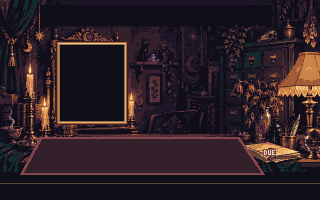
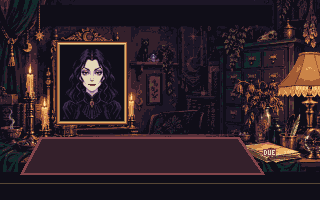
Add layered cartoon Vex sprites to all room candidates

Changed region(s): [[0.1875, 0.24, 0.375, 0.6]]

diff --git a/art/README.md b/art/README.md
@@ -1,46 +1,48 @@
 # Vex room candidates
 
-Three room backgrounds for a live portrait comparison. No room is selected yet. These files add art only; they do not change the persona, renderer or kiosk.
+Three room compositions with a drawn cartoon Vex. The agent remains voice-only; the sprite mouth follows her voice volume. No room is selected yet. These files add art only; they do not change the persona, renderer or kiosk.
 
 ## Start here
 
 - `palette.json` is the single source of truth: 32 sRGB hex colours, in fixed order.
 - `rooms/index.json` lists the three candidates and their asset paths.
-- Each `rooms/<id>.png` is the finished **320×200** background.
+- Each `rooms/<id>.png` is the finished **320×200** still with Vex composed into the room.
 - Each `rooms/<id>.json` describes its overlay rectangles in native pixels.
 - Each `rooms/<id>.laptop.png` is a **1440×900** composition mockup: a **1280×800** scene at exactly **×4**, with **80 px** side margins and **50 px** top/bottom margins.
-- Each `rooms/<id>.layout.png` is an optional ×4 rectangle guide: gold = face, green = table, pink = speech, slate = controls.
+- Each `rooms/<id>.layout.png` is an optional ×4 rectangle guide: gold = sprite, green = table, pink = speech, slate = controls.
 - `idle-dialogue.json` contains six short Vex lines. All fit on one row at a six-pixel glyph advance.
 
-The native backgrounds leave the face, speech and controls areas empty. The mockups add one sample line and the three control labels. Mockup controls are not interactive. No static character has been baked into the rooms: use the moving face test before choosing.
+Each room also has a `<id>.background.png` clean plate for animation. Load that plate in the runtime, then draw Vex from `sprites/vex-sheet.png`; use the composed still as a preview or fallback. Speech and controls stay clear in the native files. Mockups add sample dialogue and labels; those labels are not interactive.
+
+The sprite atlas includes breathing, a blink, four reactions, four voice mouth shapes, an extra resting smirk, and an optional card-turning hand. See `sprites/README.md` for the layering contract. The rough sheet was delivered first; the refined sheet retains its frame positions.
 
 ## Candidates
 
-| ID | Composition | Face opening | Card safe area |
+| ID | Composition | Sprite rectangle | Card safe area |
 | --- | --- | --- | --- |
 | `01-velvet-alcove` | Central gilt mirror, purple curtains, dead bouquet and overdue invoice to the left | x128, y41, 64×76 | x65, y136, 190×30 |
 | `02-corner-booth` | Mirror to the left; bottle-green drawers, lamp, dead flowers and paperwork to the right | x60, y45, 64×76 | x55, y141, 180×28 |
 | `03-attic-window` | Mirror to the right; cool window light, wilted flowers and books to the left | x224, y39, 64×76 | x82, y140, 174×29 |
 
-The identical 64×76 portrait openings let the face test compare composition without also changing crop size. Start with the same head-and-shoulders framing in all three. Adjust lighting to the room: balanced warm light for the alcove, warm light from the right for the booth, cool left/warm right for the attic.
+All three rooms use the same 64×76 sprite size, so the first talking-sprite test can compare the compositions directly.
 
 ## Placement contract
 
-Load the room JSON, its `background`, and its `palette` relative to the JSON's location. Use `rects.face`, `rects.table`, `rects.speech` and `rects.controls`. Use `safeAreas.cards` for unobstructed card placement; the wider table rectangle includes the cloth border. Use `controlItems` for labels and hit targets.
+Load the room JSON, its `background`, and its `palette` relative to the JSON's location. Use `rects.sprite`, `rects.table`, `rects.speech` and `rects.controls`. Use `safeAreas.cards` for unobstructed card placement; the wider table rectangle includes the cloth border. Use `controlItems` for labels and hit targets.
 
 Coordinates use a top-left origin. `x` and `y` are inclusive. `x + width` and `y + height` are exclusive. Pixel aspect ratio is 1. Do not apply a 4:3 correction. Map input coordinates through the same scale and letterbox offsets as the scene.
 
 Render in this order:
 
 1. Native room background.
-2. Live portrait, clipped to `rects.face`. The gilt frame is already in the background, outside this rectangle. Its empty glass uses palette index 0.
-3. Cards inside `safeAreas.cards`.
+2. Sprite body, then mouth at the same `rects.sprite` origin. The gilt frame is already in the background, outside this rectangle. The clean plate recess uses palette index 0.
+3. Cards inside `safeAreas.cards`, followed by the optional hand at `sprite.handOrigin`.
 4. Dialogue in `rects.speech`.
 5. Controls in `rects.controls`.
 
 Use nearest-neighbour scaling after composition. The supplied mockups are ×4. A 1366×768 viewport cannot fit a 1280×800 scene: use ×3 there rather than cropping or distorting the room. The runtime can select the largest whole-number scale that fits its viewport.
 
-The table is sized for the next one-card sample and small spread thumbnails. Enlarged card inspection can use a separate overlay; do not enlarge every card into the portrait or speech area. Longer live dialogue will need paging or short chunks. The one-line guarantee applies to the six supplied idle lines, not arbitrary model speech.
+The table is sized for the next one-card sample and small spread thumbnails. Enlarged card inspection can use a separate overlay; do not enlarge every card into the sprite or speech area. Longer live dialogue will need paging or short chunks. The one-line guarantee applies to the six supplied idle lines, not arbitrary model speech.
 
 ## Palette roles
 
@@ -57,11 +59,11 @@ Dither is off. Every pixel in the finished backgrounds and mockups belongs to th
 
 ## Production and cleanup
 
-The source room images were generated with the built-in image-generation tool. The exact prompts are in `prompts/`. They describe original VGA adventure-game rooms without named game references, characters or borrowed jokes. The persona is unchanged.
+The source room and sprite images were generated with the built-in image-generation tool. The exact prompts are in `prompts/`. They describe original VGA adventure-game rooms without named game references, characters or borrowed jokes. The persona is unchanged.
 
 The finishing script reduces each source to 320×200, quantises to the shared palette without dithering, then applies hand-specified native-pixel edits:
 
-- square, uniform face openings with continuous gilt bevels;
+- square, uniform sprite recesses with continuous gilt bevels;
 - quiet speech bands and a clean control strip;
 - simplified cloth silhouettes and uncluttered card safe areas;
 - a small readable overdue stamp on each invoice;
@@ -76,8 +78,10 @@ node art/scripts/build.mjs
 node art/scripts/verify.mjs
 ```
 
-The checker validates sizes, palette membership, clear face openings, rectangle bounds and non-overlap, single-line idle text, exact ×4 pixel blocks, letterboxing, and changes restricted to UI rectangles in the mockups. Intermediate files go to the ignored `art/.build/` directory.
+The checker validates sizes, palette membership, clear sprite plates, rectangle bounds and non-overlap, single-line idle text, exact ×4 pixel blocks, letterboxing, and changes restricted to UI rectangles in the mockups. Intermediate files go to the ignored `art/.build/` directory.
+
+The sprite checker also verifies all 17 named frames, binary transparency, a fixed head during breathing, and all 40 body/mouth combinations. Validation does not exercise audio or browser integration.
 
 ## Next check
 
-Put the same moving face into each room using its JSON. Check head size, jaw/shoulder crop, lighting, mouth readability and visual separation from the card table at real laptop scale. Then choose one room for a complete sample scene with one card, dialogue and real controls. The video comparison has not been run as part of this art delivery.
+Claude can put the sprite into the placeholder room and drive the four mouth shapes from Vex's voice volume. Compare all three compositions at laptop scale, then choose one for the sample scene with one card, dialogue and real controls. The current work changes only `art/`; runtime integration and persona remain outside this branch's scope.

diff --git a/art/sprites/README.md b/art/sprites/README.md
@@ -1,0 +1,35 @@
+# Vex cartoon sprite
+
+`vex-sheet.png` is a transparent 256×380 atlas. Every cell is 64×76 with identical alignment. Load the exact named rectangles and timings from `vex-sheet.json`. `vex-reactions-preview.png` shows composed expressions; `vex-sheet-preview.png` shows the atlas layers. Neither preview is a runtime atlas.
+
+| Row | Cells, left to right |
+| --- | --- |
+| 0 | idle, breathe in, half blink, blink |
+| 1 | eye roll, smirk, dramatic, unimpressed |
+| 2 | closed mouth, slightly open, open, wide |
+| 3 | resting smirk mouth; three unused transparent cells |
+| 4 | hand rest (transparent), reach, turn, settle |
+
+## Draw contract
+
+1. Draw the room's clean `background` plate, not the composed `still`.
+2. Copy the selected body cell to `rects.sprite.x, rects.sprite.y` at 64×76.
+3. Copy the selected mouth cell to exactly the same destination. Its padding already positions the lips. `mouthAnchor` describes the lip location; it is not an extra draw offset.
+4. Draw cards, then the optional hand at `sprite.handOrigin`. The hand contact point is (29,54) within its cell; reposition its origin if the runtime moves the card.
+5. Draw dialogue and controls, then upscale the entire scene with nearest-neighbour sampling.
+
+Redraw the clean plate before each changed frame, or restore every affected rectangle. Drawing a transparent mouth over the previous mouth without restoring the body leaves old pixels behind. The static `vex-idle.png` combines idle body and closed mouth for previews.
+
+## Voice and expression
+
+Select the four ordered mouth frames from smoothed **Vex output voice** volume, not the microphone input. Close the mouth on silence and when speech stops. Tune amplitude thresholds against actual output audio; none have been validated in this art delivery. A short hold and different thresholds for opening/closing can reduce chatter.
+
+Body reactions do not change mouth registration: the voice can continue through any expression. Use the extra smirk mouth only as a silent resting expression, then return to the amplitude-driven mouth while speaking. Breathing changes the chest, leaving the head fixed. The blink sequence uses neutral eyes; defer it while a reaction is held so it does not interrupt that expression. Restore idle after a one-shot reaction or blink.
+
+The dealing hand is an optional, stylised independent overlay. Time the card reveal to `hand/turn`; the atlas does not animate or replace the card artwork. Its placement and timing need a browser check with the real card.
+
+## Build and validation
+
+Run `node art/scripts/build.mjs` to rebuild the sprite and all room compositions. Run `node art/scripts/verify.mjs` for the full art check, or `node art/scripts/verify-sprites.mjs` for the atlas alone. All opaque sprite pixels use `art/palette.json`; alpha is either 0 or 255.
+
+Source artwork was generated with the built-in image tool, then quantised and edited at native pixel coordinates. The prompt and source are retained under `art/prompts/` and `art/sources/`. Runtime assets have no additional palette dependency.
